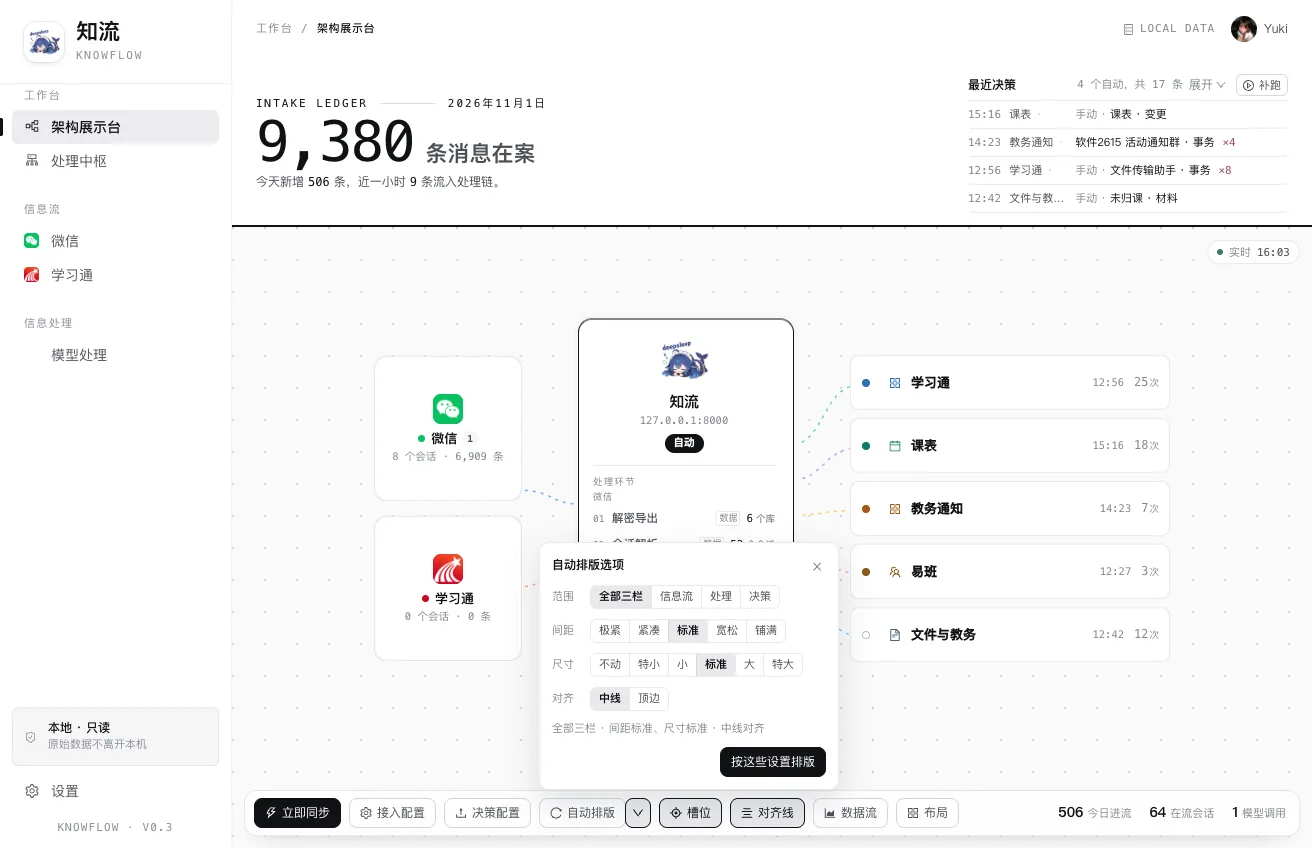
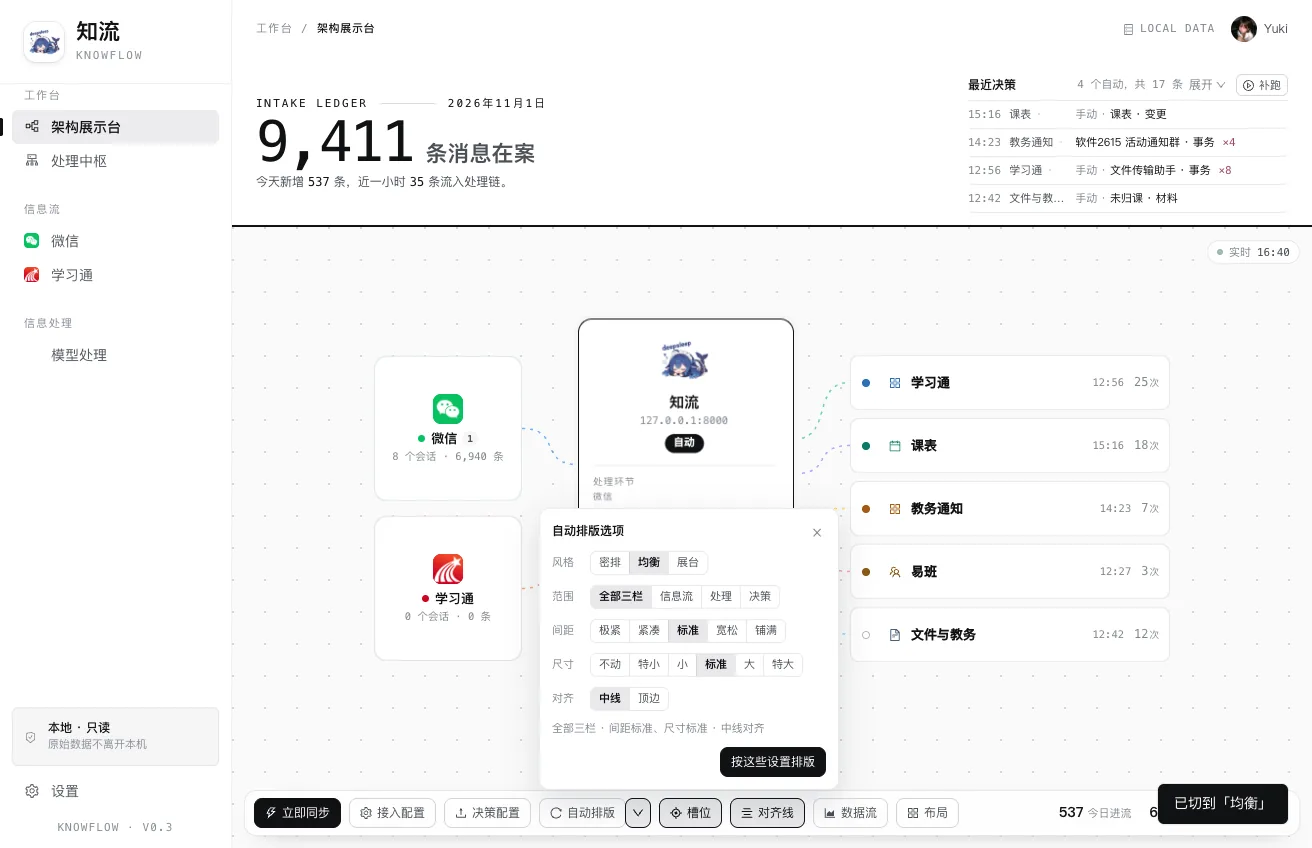
docs(posts): 画布文补综合档与栏距，换新排版弹层截图

diff --git a/src/content/posts/knowflow-arch-canvas.md b/src/content/posts/knowflow-arch-canvas.md
@@ -149,9 +149,9 @@ function rightClearance(el, current) {
 
 ## 自动排版：四个维度，一次做完
 
-工具条上的自动排版拆成四组选项：范围（全部三栏 / 只排某一栏）、间距（极紧 / 紧凑 / 标准 / 宽松 / 铺满）、尺寸（不动 / 特小 / 小 / 标准 / 大 / 特大）、对齐（中线 / 顶边）。
+自动排版的弹层最上面是一排综合档：密排、均衡、展台。每一档把尺寸、间距、对齐配好成对给，点一下连排版一起跑完，不用来回调四个维度。下面才是可以单独动的四行：范围（全部三栏 / 只排某一栏）、间距（极紧 / 紧凑 / 标准 / 宽松 / 铺满）、尺寸（不动 / 特小 / 小 / 标准 / 大 / 特大）、对齐（中线 / 顶边）。
 
-![图 6 排版选项：四行，改完点一次就落位](./images/arch-canvas/04-panel.webp)
+![图 6 排版选项：顶上一排综合档，下面四行单独调](./images/arch-canvas/04-panel.webp)
 
 它是"一次性"的：点一下，按当前选择摆一遍，然后结束。不监听窗口变化，不等面板展开，也不会在后台偷偷再跑一遍。所以手摆过的位置能留住——这一条被反复要求过，因为早期版本会在窗口一动的时候把用户刚摆好的卡片冲掉。
 
@@ -160,6 +160,8 @@ function rightClearance(el, current) {
 间距档都是相对"这一栏自己的行距"算的，不写死像素。来源栏 10px、决策栏 5px，是设计上定的疏密，档位乘法叠在它上面，不会把 5px 的五条决策行拆散。
 
 五档的系数是 0.15 / 0.4 / 1.5 / 2.6 / 均分剩余高度。
+
+间距还管三栏之间的栏距，28 / 40 / 56 / 72 / 88px——一栏里排得密、两栏之间却隔着一条马路，整块就散了。栏距有个下限：卡片是绝对定位的，中枢在"特大"时宽到 259，而那一栏只有 216，多出来的 43 就伸进栏距里。所以栏距至少比溢出多留 12px，否则卡片会直接压在决策栏上。
 
 光有系数还不够。卡片放大一倍，同样的 15px 在眼里就只剩一半，于是"特大 + 标准"看起来比"标准 + 标准"挤。所以间距还乘了一个随尺寸档抬升的底子：
 
